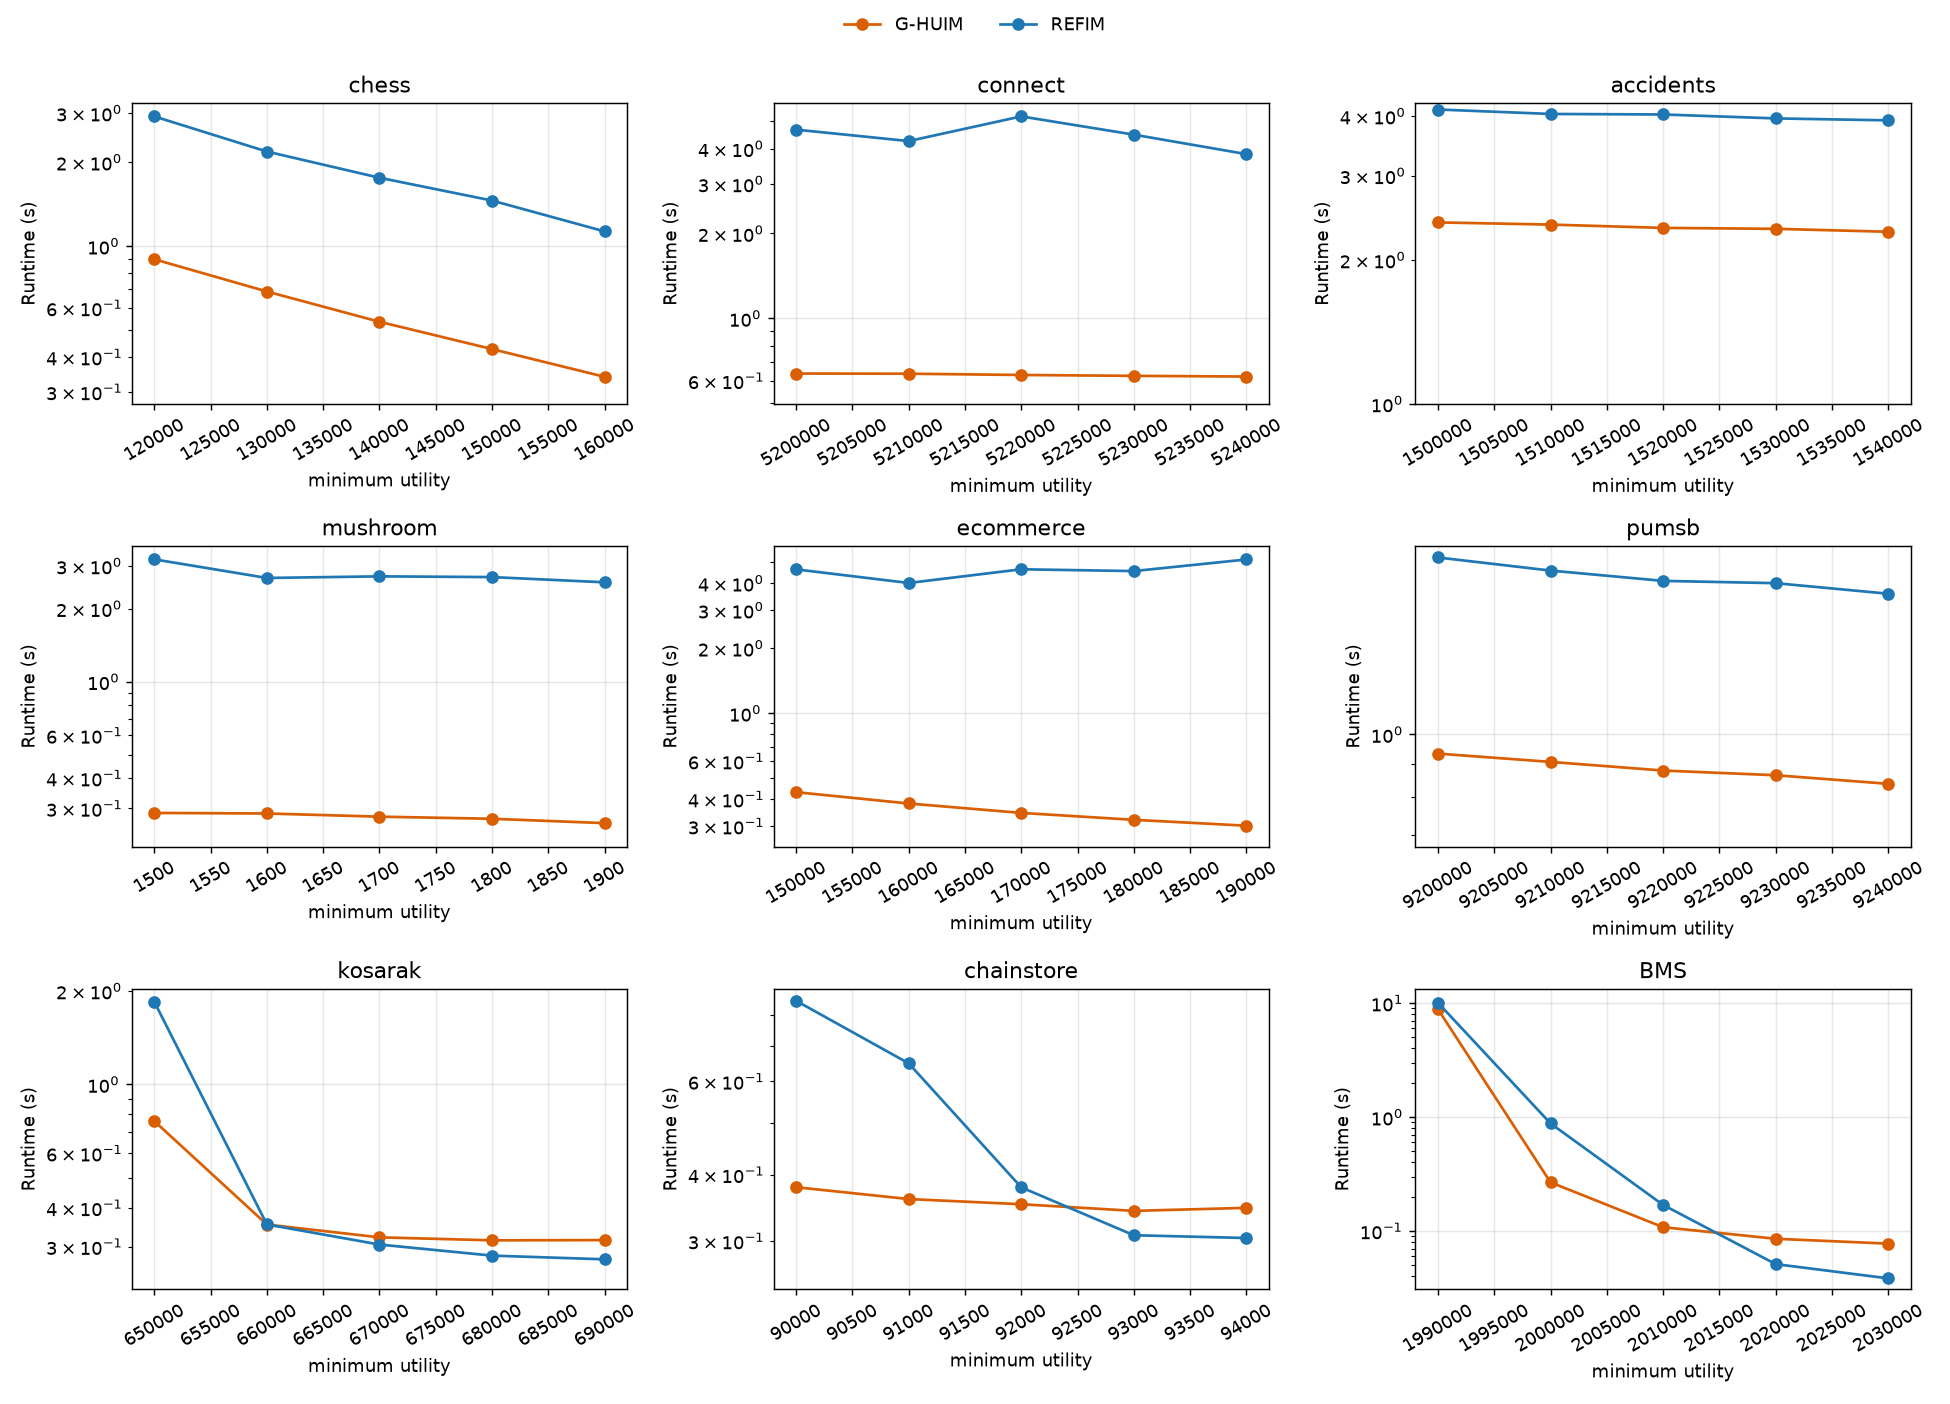
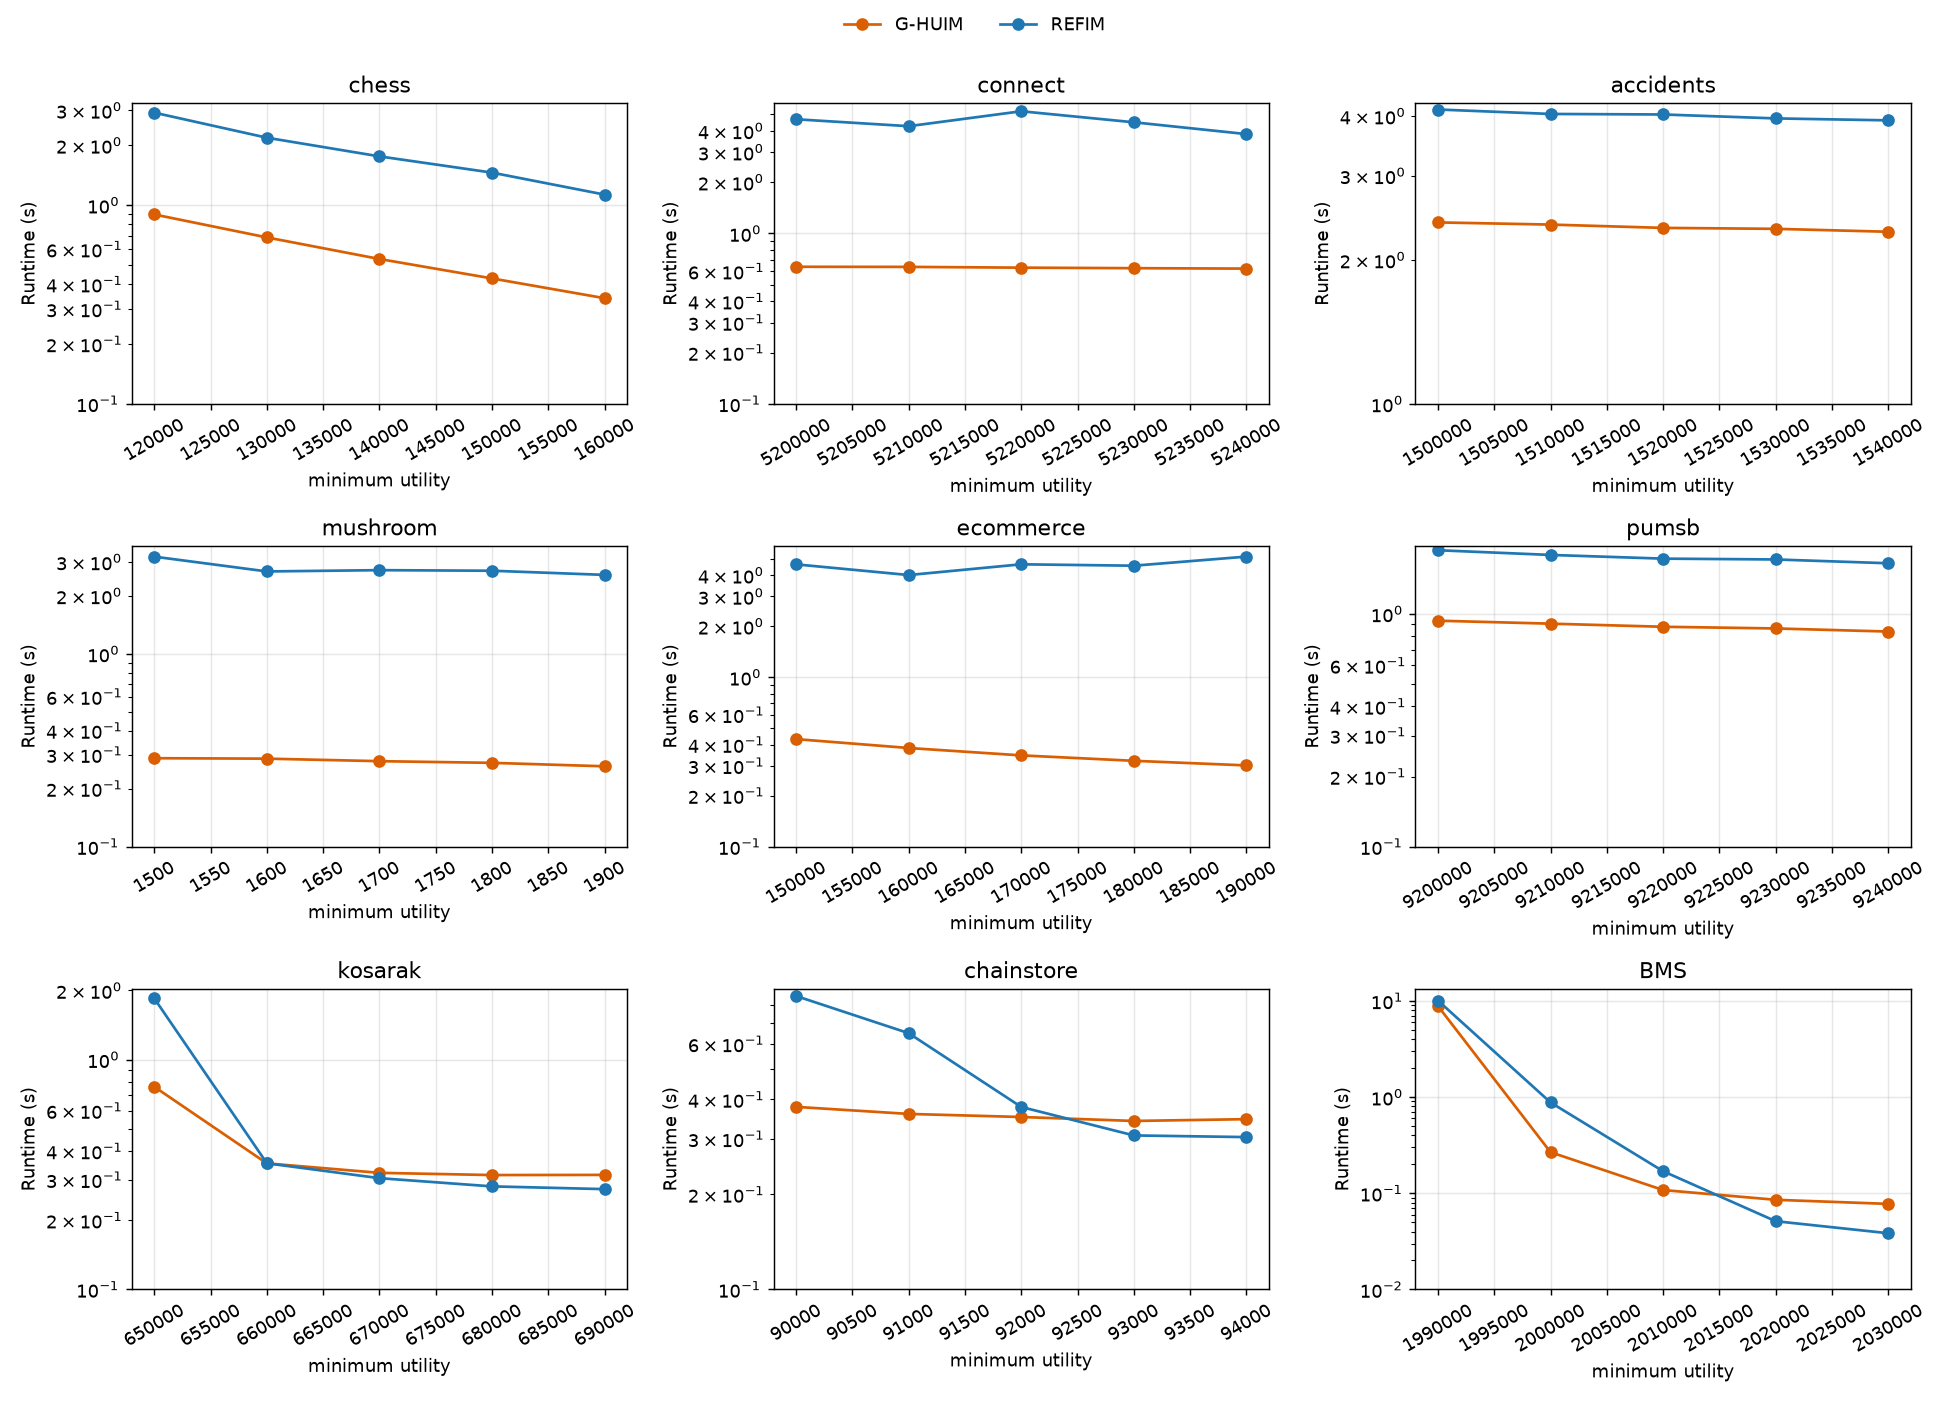
Sweep plots: y floor at the decade below the smallest data point

diff --git a/experiments/plot_sweep.py b/experiments/plot_sweep.py
@@ -5,6 +5,7 @@ A G-HUIM run that failed (e.g. BFS arena exhausted) is drawn as a red cross on t
 """
 
 import argparse
+import math
 from pathlib import Path
 
 import matplotlib
@@ -35,8 +36,8 @@ def panel(ax, data, metric):
             ax.plot(ok.index, ok[metric], "o-", color=COLORS[miner], label=miner)
         failed[miner] = g[g.status != "ok"].minutil.unique()
     ax.set_yscale("log")
-    # log axis can't reach 0: start at 10^0 = 1 (lower only if data dips below, e.g. sub-second runtimes)
-    ax.set_ylim(bottom=min(1, ax.dataLim.y0 * 0.8))
+    # log axis can't reach 0: floor at the decade below the smallest data point (min 10^0 = 1)
+    ax.set_ylim(bottom=10 ** min(0, math.floor(math.log10(ax.dataLim.y0))))
     for miner, xs in failed.items():
         if len(xs):
             ax.plot(xs, [ax.get_ylim()[0]] * len(xs), "x", color="red", ms=9, mew=2, label=f"{miner} didn't run", clip_on=False)
